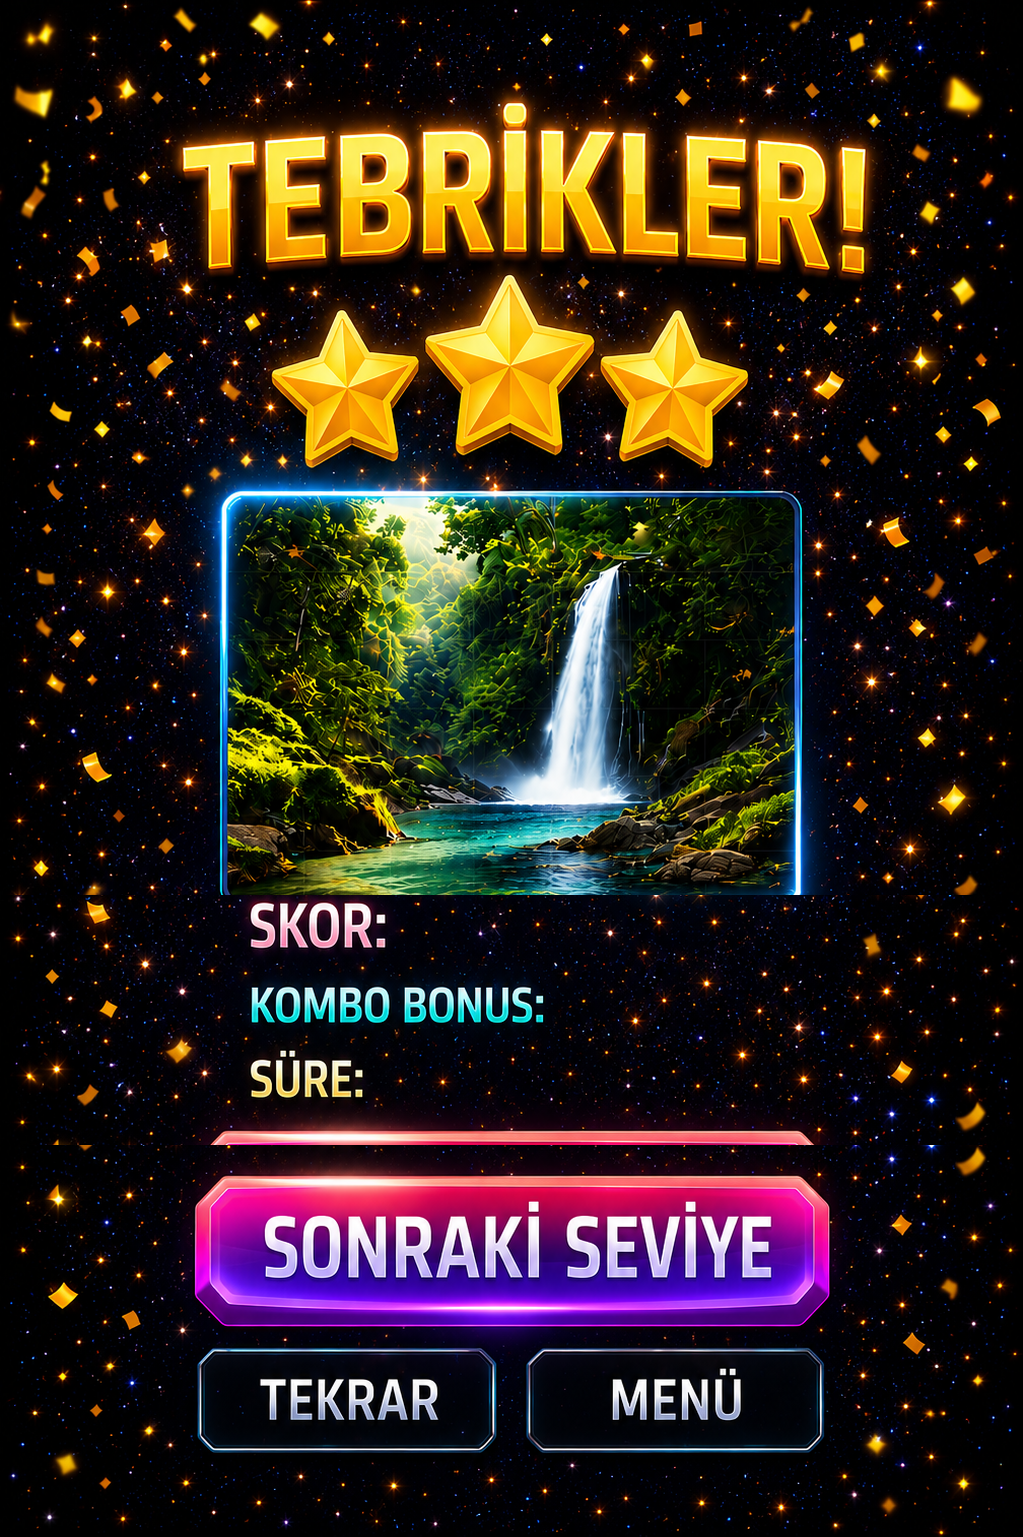
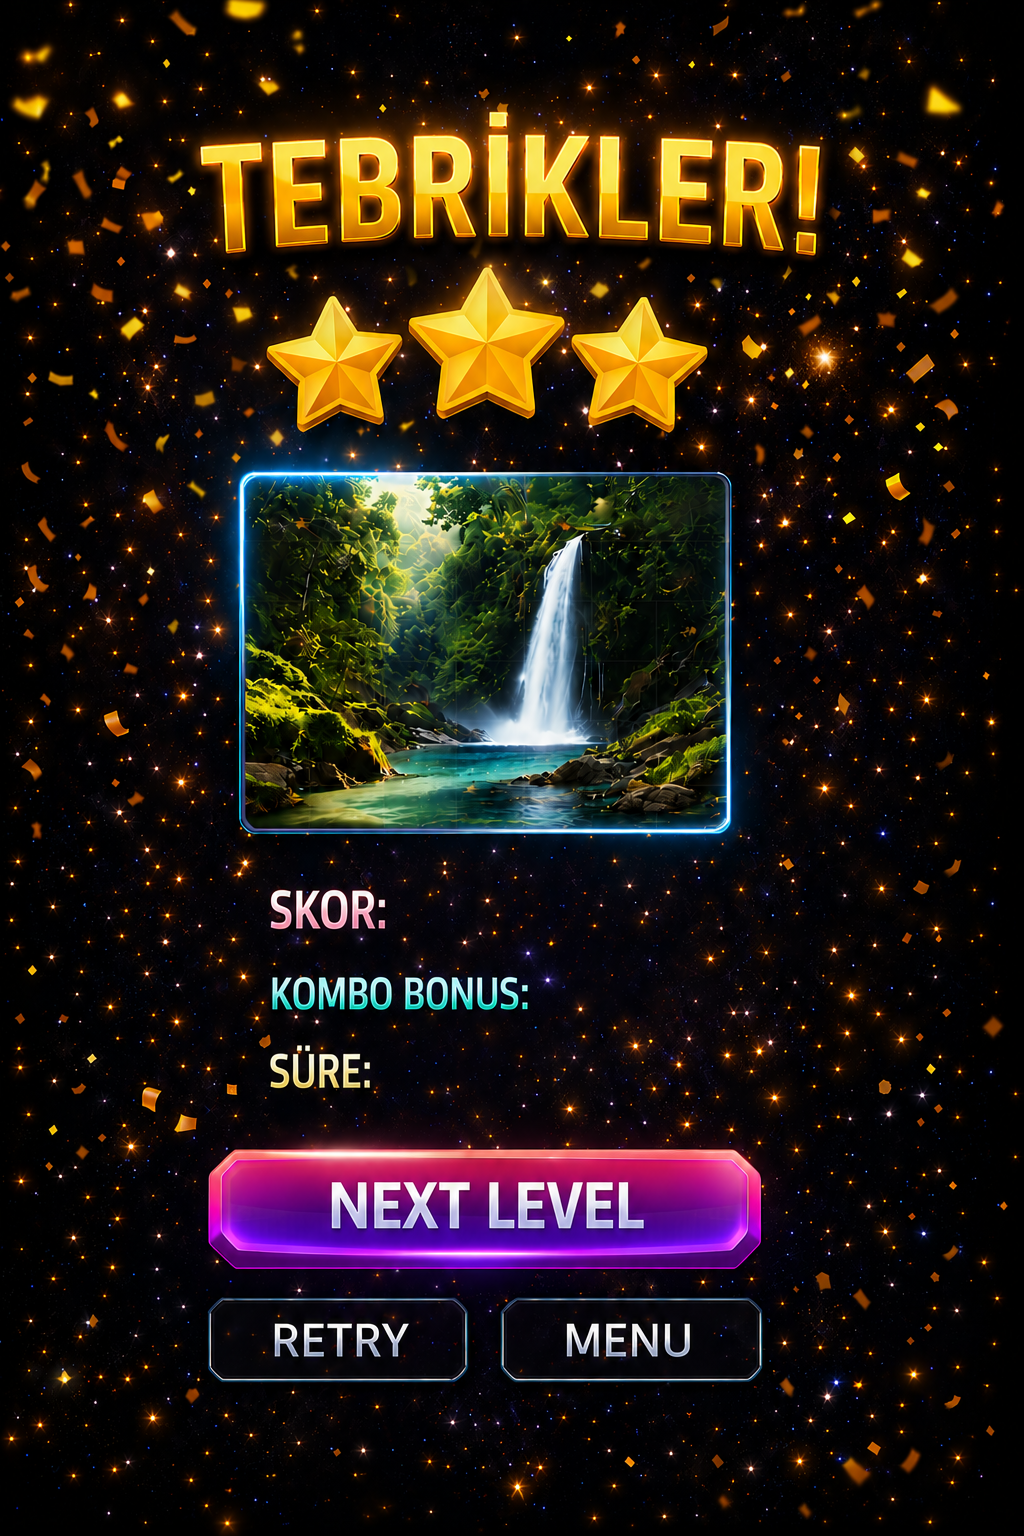
fix: victory TR screen — image frame + text overlay positions

diff --git a/mobile/lib/screens/victory_screen.dart b/mobile/lib/screens/victory_screen.dart
@@ -54,10 +54,10 @@ class VictoryScreen extends StatelessWidget {
           overlayBuilder: (size) => [
             // Kategori resmi
             Positioned(
-              left: size.width * 0.253,
-              top: size.height * 0.314,
-              width: size.width * 0.470,
-              height: size.height * 0.234,
+              left: size.width * (isTurkish() ? 0.237 : 0.253),
+              top: size.height * (isTurkish() ? 0.312 : 0.314),
+              width: size.width * (isTurkish() ? 0.476 : 0.470),
+              height: size.height * (isTurkish() ? 0.225 : 0.234),
               child: ClipRRect(
                 borderRadius: BorderRadius.circular(16),
                 child: Image.asset(
@@ -71,8 +71,8 @@ class VictoryScreen extends StatelessWidget {
 
             // SCORE
             Positioned(
-              left: size.width  * (isTurkish() ? 0.35 : 0.463),
-              top:  size.height * (isTurkish() ? 0.590 : 0.582),
+              left: size.width  * (isTurkish() ? 0.43 : 0.463),
+              top:  size.height * (isTurkish() ? 0.573 : 0.582),
               width: size.width * 0.40,
               height: size.height * 0.045,
               child: IgnorePointer(
@@ -92,8 +92,8 @@ class VictoryScreen extends StatelessWidget {
 
             // COMBO
             Positioned(
-              left: size.width  * (isTurkish() ? 0.60 : 0.563),
-              top:  size.height * (isTurkish() ? 0.645 : 0.633),
+              left: size.width  * (isTurkish() ? 0.57 : 0.563),
+              top:  size.height * (isTurkish() ? 0.632 : 0.633),
               width: size.width * 0.30,
               height: size.height * 0.035,
               child: IgnorePointer(
@@ -113,8 +113,8 @@ class VictoryScreen extends StatelessWidget {
 
             // TIME
             Positioned(
-              left: size.width  * (isTurkish() ? 0.32 : 0.400),
-              top:  size.height * (isTurkish() ? 0.700 : 0.684),
+              left: size.width  * (isTurkish() ? 0.42 : 0.400),
+              top:  size.height * (isTurkish() ? 0.685 : 0.684),
               width: size.width * 0.30,
               height: size.height * 0.030,
               child: IgnorePointer(
